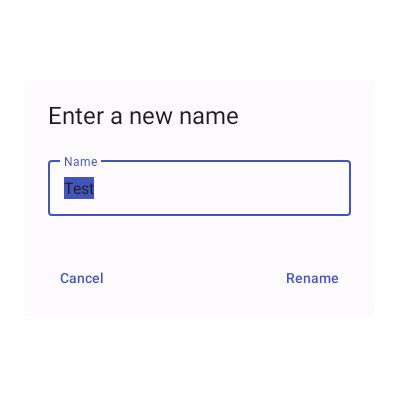
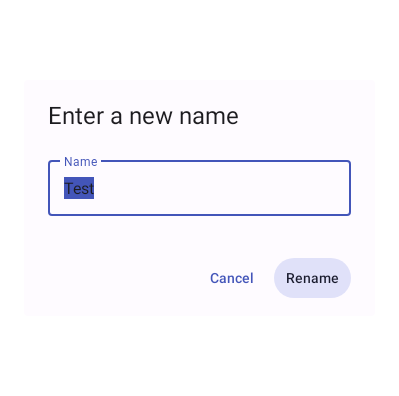
Use M3 For Rename Public Share Dialog

Changed region(s): [[0.6917, 0.6364, 0.9023, 0.7576], [0.1504, 0.6667, 0.2707, 0.7273], [0.5113, 0.697, 0.6316, 0.7273]]

diff --git a/app/src/main/java/com/owncloud/android/ui/dialog/RenamePublicShareDialogFragment.java b/app/src/main/java/com/owncloud/android/ui/dialog/RenamePublicShareDialogFragment.java
@@ -28,6 +28,7 @@ import android.text.TextUtils;
 import android.view.LayoutInflater;
 import android.view.View;
 
+import com.google.android.material.button.MaterialButton;
 import com.google.android.material.dialog.MaterialAlertDialogBuilder;
 import com.nextcloud.client.di.Injectable;
 import com.owncloud.android.R;
@@ -52,8 +53,6 @@ public class RenamePublicShareDialogFragment
 
     private static final String ARG_PUBLIC_SHARE = "PUBLIC_SHARE";
 
-    public static final String RENAME_PUBLIC_SHARE_FRAGMENT = "RENAME_PUBLIC_SHARE_FRAGMENT";
-
     @Inject ViewThemeUtils viewThemeUtils;
     @Inject KeyboardUtils keyboardUtils;
 
@@ -75,8 +74,10 @@ public class RenamePublicShareDialogFragment
         AlertDialog alertDialog = (AlertDialog) getDialog();
 
         if (alertDialog != null) {
-            viewThemeUtils.platform.colorTextButtons(alertDialog.getButton(AlertDialog.BUTTON_POSITIVE),
-                                                     alertDialog.getButton(AlertDialog.BUTTON_NEUTRAL));
+            MaterialButton positiveButton = (MaterialButton) alertDialog.getButton(AlertDialog.BUTTON_POSITIVE);
+            MaterialButton negativeButton = (MaterialButton) alertDialog.getButton(AlertDialog.BUTTON_NEGATIVE);
+            viewThemeUtils.material.colorMaterialButtonPrimaryTonal(positiveButton);
+            viewThemeUtils.material.colorMaterialButtonPrimaryBorderless(negativeButton);
         }
     }
 
@@ -104,7 +105,7 @@ public class RenamePublicShareDialogFragment
         MaterialAlertDialogBuilder builder = new MaterialAlertDialogBuilder(view.getContext());
         builder.setView(view)
             .setPositiveButton(R.string.file_rename, this)
-            .setNeutralButton(R.string.common_cancel, this)
+            .setNegativeButton(R.string.common_cancel, this)
             .setTitle(R.string.public_share_name);
 
         viewThemeUtils.dialog.colorMaterialAlertDialogBackground(binding.userInput.getContext(), builder);
